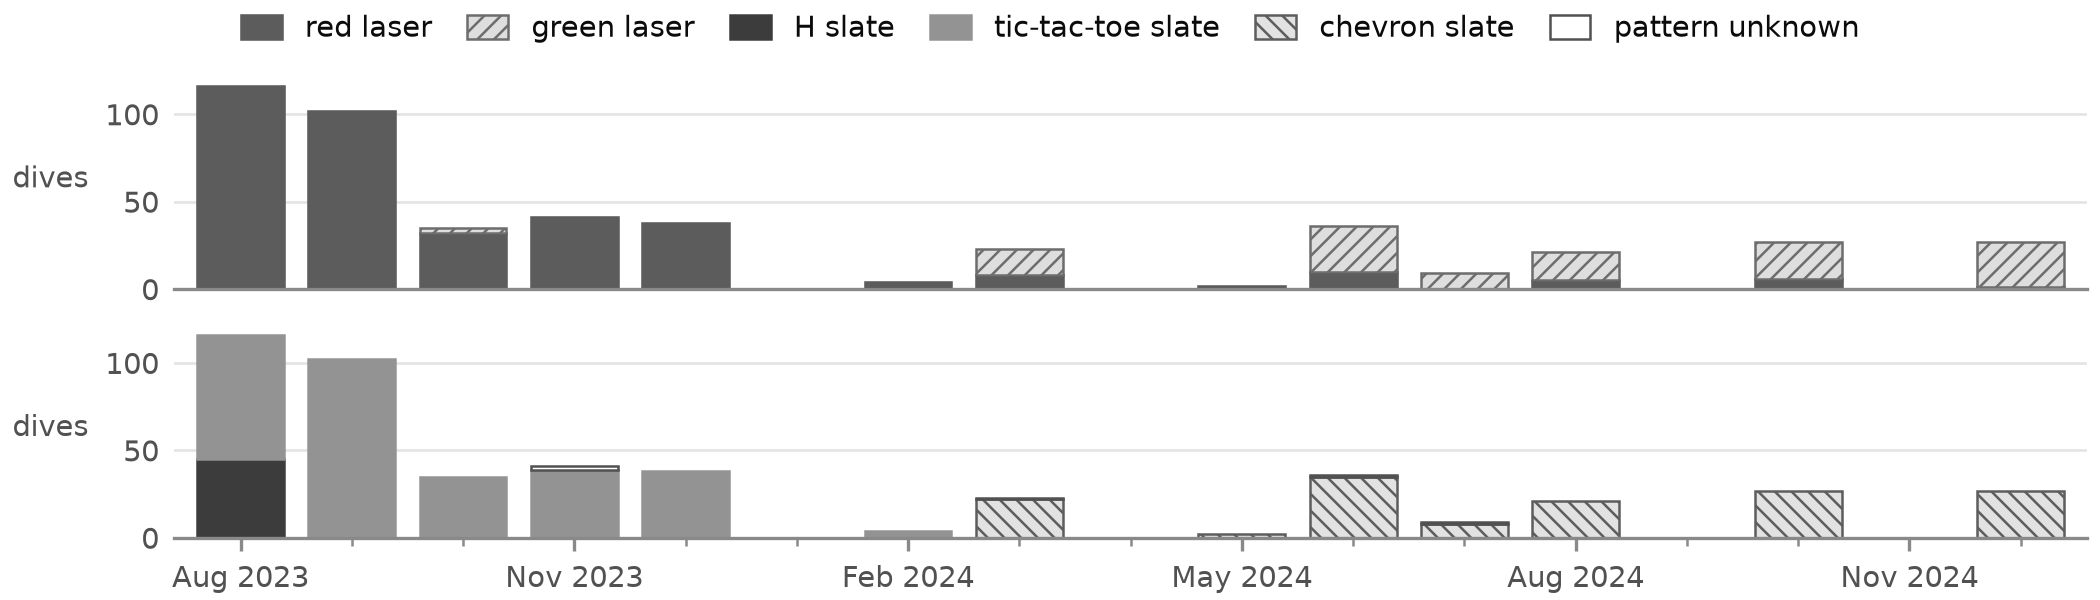
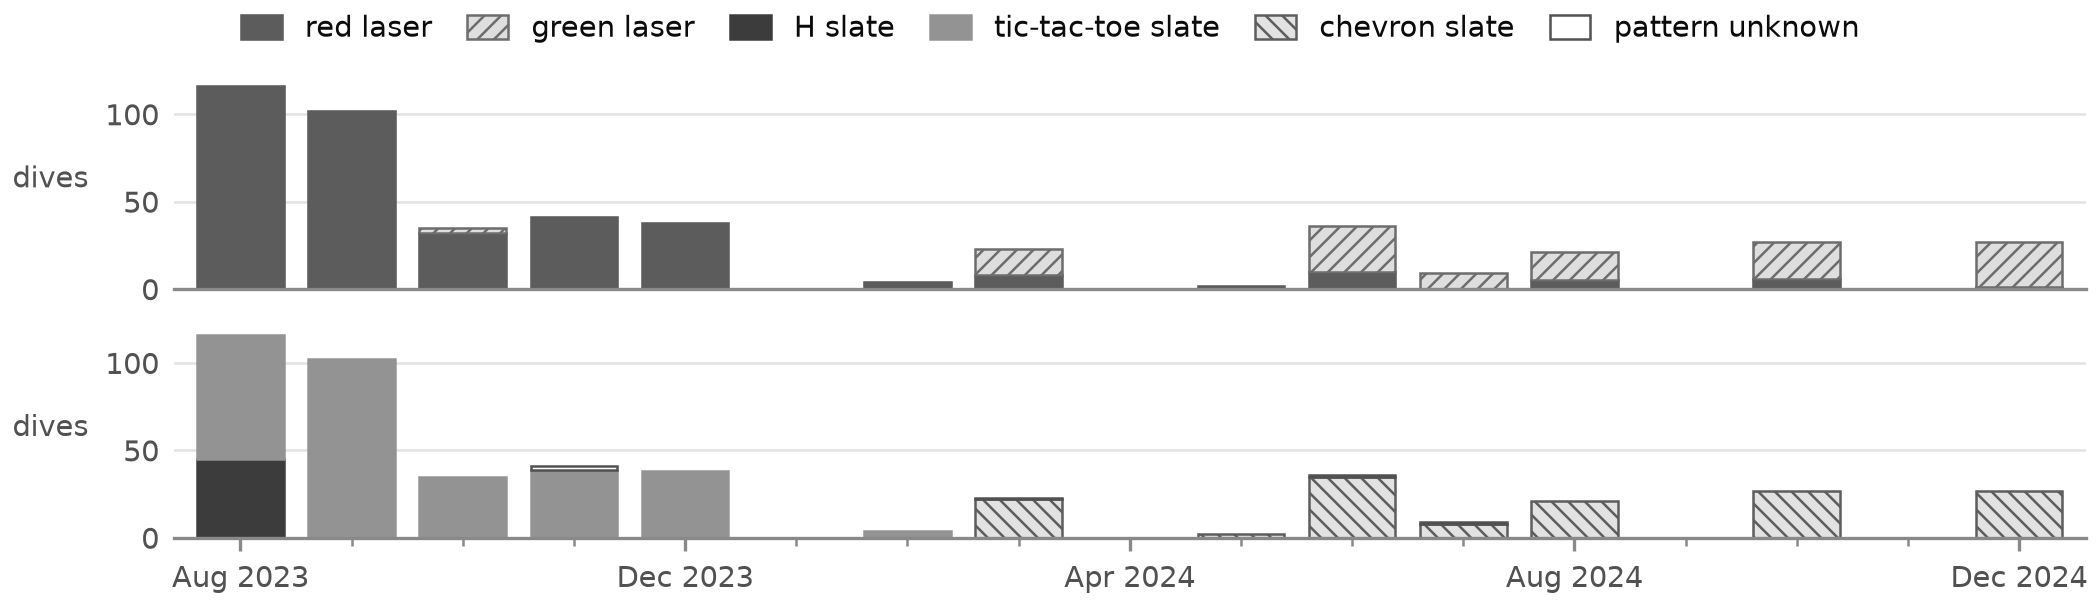
fig:timeline: label every fourth month so the final month (Dec 2024) is labeled

diff --git a/analysis/codesign/fig_timeline.py b/analysis/codesign/fig_timeline.py
@@ -119,7 +119,8 @@ def main():
     assert (a == b).all() and a.sum() == len(D)
     top.tick_params(axis="x", which="both", length=0)
     bot.set_xticks(np.arange(len(MONTHS)), minor=True)
-    major = [i for i, m in enumerate(MONTHS) if m.month in (2, 5, 8, 11)]
+    major = [i for i, m in enumerate(MONTHS) if m.month in (4, 8, 12)]   # every fourth month, so the first and last are labeled
+    assert major[0] == 0 and major[-1] == len(MONTHS) - 1
     bot.set_xticks(major, [MONTHS[i].strftime("%b %Y") for i in major])
     bot.tick_params(axis="x", which="minor", length=2, color=MUTED); bot.tick_params(axis="x", which="major", length=3, color=MUTED)
     bot.set_xlim(-0.6, len(MONTHS) - 0.4)
